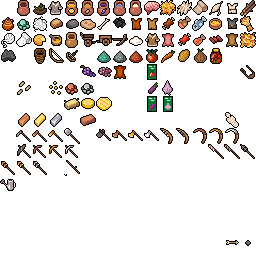
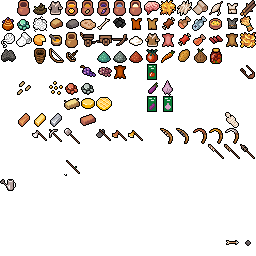
Добыча ресурсов
- Игроку сразу выдаются все необходимые инструменты
- Добавлены залежи камня и древесины
- Добавлены топор и кирка

diff --git a/palmesneo_village/palmesneo_village/Entities/Locations/GameLocation.cs b/palmesneo_village/palmesneo_village/Entities/Locations/GameLocation.cs
@@ -21,7 +21,9 @@ namespace palmesneo_village
     public enum GroundTopTile
     {
         None = -1,
-        Moisture = 0
+        Moisture = 0,
+        Stone = 1,
+        Wood = 2
     }
 
     public class GameLocation : Entity
@@ -31,7 +33,6 @@ namespace palmesneo_village
 
         public int MapWidth { get; private set; }
         public int MapHeight { get; private set; }
-        private TimeOfDayManager timeOfDayManager;
 
         private CameraMovement cameraMovement;
 
@@ -191,6 +192,18 @@ namespace palmesneo_village
 
                     if (groundTileId == 3 && groundTopTileId != 0) return true;
                 }
+                else if (handItem is PickaxeItem pickaxeItem)
+                {
+                    if (building != null) return false;
+
+                    if (GetGroundTopTile(x, y) == GroundTopTile.Stone) return true;
+                }
+                else if (handItem is AxeItem axeItem)
+                {
+                    if (building != null) return false;
+
+                    if (GetGroundTopTile(x, y) == GroundTopTile.Wood) return true;
+                }
             }
             else if (handItem is SeedItem seedItem)
             {
@@ -238,7 +251,7 @@ namespace palmesneo_village
                         {
                             inventory.SubSlotItemContentAmount(slotIndex, 1);
 
-                            groundTopTilemap.SetCell(x, y, 0);
+                            SetGroundTopTile(x, y, GroundTopTile.Moisture);
 
                             playerEnergyManager.ConsumeEnergy(1);
                         }
@@ -247,6 +260,34 @@ namespace palmesneo_village
                             //TODO: дать знать игроку, что лейка пуста
                         }
                     }
+                }
+                else if (handItem is PickaxeItem pickaxeItem)
+                {
+                    SetGroundTopTile(x, y, GroundTopTile.None);
+
+                    Item spawnItem = Engine.ItemsDatabase.GetItemByName<Item>("stone");
+
+                    AddItem(new Vector2(x, y) * Engine.TILE_SIZE, new ItemContainer()
+                    {
+                        Item = spawnItem,
+                        Quantity = Calc.Random.Range(1, 2)
+                    });
+
+                    playerEnergyManager.ConsumeEnergy(1);
+                }
+                else if(handItem is AxeItem axeItem)
+                {
+                    SetGroundTopTile(x, y, GroundTopTile.None);
+
+                    Item spawnItem = Engine.ItemsDatabase.GetItemByName<Item>("wood");
+
+                    AddItem(new Vector2(x, y) * Engine.TILE_SIZE, new ItemContainer()
+                    {
+                        Item = spawnItem,
+                        Quantity = Calc.Random.Range(1, 2)
+                    });
+
+                    playerEnergyManager.ConsumeEnergy(1);
                 }
             }
             else if(handItem is SeedItem seedItem)

diff --git a/palmesneo_village/palmesneo_village/Scenes/GameplayScene.cs b/palmesneo_village/palmesneo_village/Scenes/GameplayScene.cs
@@ -64,7 +64,7 @@ namespace palmesneo_village
             player = new Player(creatureTemplate, Inventory);
             player.LocalPosition = new Vector2(8 * Engine.TILE_SIZE, 6 * Engine.TILE_SIZE);
 
-            
+
             RegisterLocation(new FarmLocation("farm"));
             RegisterLocation(new HouseLocation("house"));
 
@@ -92,7 +92,7 @@ namespace palmesneo_village
             playerEnergyBarUI.Anchor = Anchor.TopLeft;
             playerEnergyBarUI.LocalPosition = new Vector2(5, 5);
             MasterUIEntity.AddChild(playerEnergyBarUI);
-          
+
             PlayerMoneyUI playerMoneyUI = new PlayerMoneyUI(PlayerMoneyManager);
             playerMoneyUI.Anchor = Anchor.BottomLeft;
             playerMoneyUI.LocalPosition = new Vector2(5, -5);
@@ -112,6 +112,13 @@ namespace palmesneo_village
             #endregion
 
             GoToLocation("farm");
+            Inventory.TryAddItem(Engine.ItemsDatabase.GetItemByName<PickaxeItem>("iron_pickaxe"), 1, 0);
+            Inventory.TryAddItem(Engine.ItemsDatabase.GetItemByName<AxeItem>("iron_axe"), 1, 0);
+            Inventory.TryAddItem(Engine.ItemsDatabase.GetItemByName<ShowelItem>("iron_showel"), 1, 0);
+
+            WateringCanItem ironWateringCan = Engine.ItemsDatabase.GetItemByName<WateringCanItem>("iron_watering_can");
+
+            Inventory.TryAddItem(ironWateringCan, 1, ironWateringCan.Capacity);
 
             base.Begin();
         }

diff --git a/palmesneo_village/palmesneo_village/Items/ItemsDatabase.cs b/palmesneo_village/palmesneo_village/Items/ItemsDatabase.cs
@@ -16,6 +16,8 @@ namespace palmesneo_village
         public SeedItem[] SeedItems { get; init; }
         public WateringCanItem[] WateringCanItems { get; init; }
         public ShowelItem[] ShowelItems { get; init; }
+        public PickaxeItem[] PickaxeItems { get; init; }
+        public AxeItem[] AxeItems { get; init; }
         public WaterSourceItem[] WaterSourceItems { get; init; }
 
         private Dictionary<string, Item> nameItemPairs;
@@ -32,6 +34,8 @@ namespace palmesneo_village
             ReadAndInitializeCollection(SeedItems, itemsIcons);
             ReadAndInitializeCollection(WateringCanItems, itemsIcons);
             ReadAndInitializeCollection(ShowelItems, itemsIcons);
+            ReadAndInitializeCollection(PickaxeItems, itemsIcons);
+            ReadAndInitializeCollection(AxeItems, itemsIcons);
             ReadAndInitializeCollection(WaterSourceItems, itemsIcons);
         }
 

diff --git a/palmesneo_village/palmesneo_village/Entities/Locations/FarmLocation.cs b/palmesneo_village/palmesneo_village/Entities/Locations/FarmLocation.cs
@@ -18,6 +18,18 @@ namespace palmesneo_village
                     SetGroundTile(x, y, GroundTile.Grass);
                 }
             }
+
+            SetGroundTopTile(10, 10, GroundTopTile.Stone);
+
+            SetGroundTopTile(14, 11, GroundTopTile.Stone);
+
+            SetGroundTopTile(10, 15, GroundTopTile.Stone);
+
+            SetGroundTopTile(13, 8, GroundTopTile.Wood);
+
+            SetGroundTopTile(5, 4, GroundTopTile.Wood);
+
+            SetGroundTopTile(17, 6, GroundTopTile.Wood);
         }
 
     }

diff --git a/palmesneo_village/palmesneo_village/Inventory/Inventory.cs b/palmesneo_village/palmesneo_village/Inventory/Inventory.cs
@@ -102,12 +102,8 @@ namespace palmesneo_village
             return -1;
         }
 
-        public bool TryAddItem(ItemContainer itemContainer)
+        public bool TryAddItem(Item item, int quantity, int contentAmount)
         {
-            Item item = itemContainer.Item;
-            int quantity = itemContainer.Quantity;
-            int contentAmount = itemContainer.ContentAmount;
-
             if (item.IsStackable)
             {
                 // Trying to find and add an item to an existing item

diff --git a/palmesneo_village/palmesneo_village/Utils/GameCommands.cs b/palmesneo_village/palmesneo_village/Utils/GameCommands.cs
@@ -44,10 +44,7 @@ namespace palmesneo_village
 
             if (Engine.CurrentScene is GameplayScene)
             {
-                ItemContainer itemContainer = new ItemContainer();
-                itemContainer.Item = item;
-                itemContainer.Quantity = itemAmount;
-                ((GameplayScene)Engine.CurrentScene).Inventory.TryAddItem(itemContainer);
+                ((GameplayScene)Engine.CurrentScene).Inventory.TryAddItem(item, itemAmount, 0);
             }
         }
 

diff --git a/palmesneo_village/palmesneo_village/Entities/Creatures/Player.cs b/palmesneo_village/palmesneo_village/Entities/Creatures/Player.cs
@@ -117,8 +117,9 @@ namespace palmesneo_village
         private void PickupItem(LocationItem locationItem)
         {
             // TODO: play pickup sound
-            
-            inventory.TryAddItem(locationItem.ItemContainer);
+            ItemContainer itemContainer = locationItem.ItemContainer;
+
+            inventory.TryAddItem(itemContainer.Item, itemContainer.Quantity, itemContainer.ContentAmount);
         }
     }
 }

diff --git a/palmesneo_village/palmesneo_village/Items/PickaxeItem.cs b/palmesneo_village/palmesneo_village/Items/PickaxeItem.cs
@@ -1,0 +1,12 @@
+using System;
+using System.Collections.Generic;
+using System.Linq;
+using System.Text;
+using System.Threading.Tasks;
+
+namespace palmesneo_village
+{
+    public class PickaxeItem : ToolItem
+    {
+    }
+}

diff --git a/palmesneo_village/palmesneo_village/Items/AxeItem.cs b/palmesneo_village/palmesneo_village/Items/AxeItem.cs
@@ -1,0 +1,12 @@
+using System;
+using System.Collections.Generic;
+using System.Linq;
+using System.Text;
+using System.Threading.Tasks;
+
+namespace palmesneo_village
+{
+    public class AxeItem : ToolItem
+    {
+    }
+}
